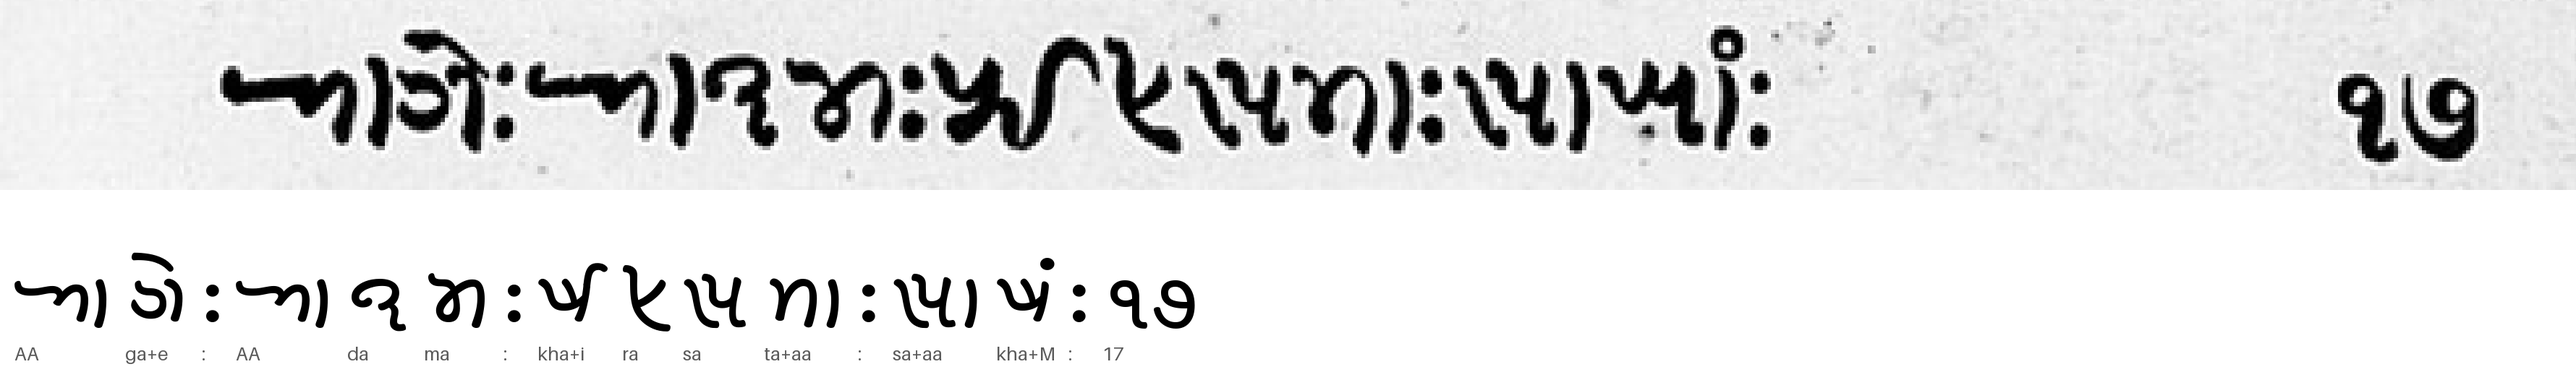
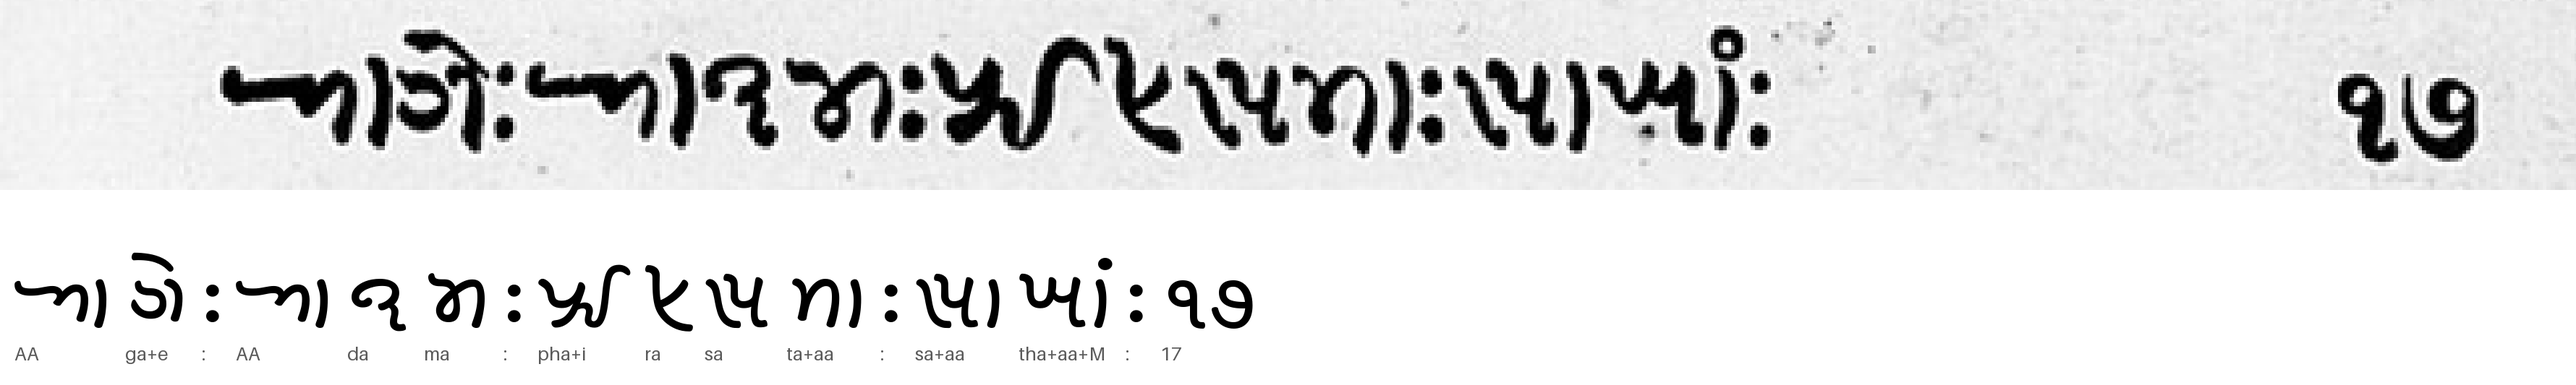
ground truth: human-verified
Human check changed 4 of 5 lines (12 edits in 119 code points against the draft). Draft lines kept in data/gt_draft. Page 18 manual count: 16.

Changed region(s): [[0.2182, 0.6904, 0.4987, 0.8705], [0.187, 0.9006, 0.4364, 0.9606], [0.4052, 0.6604, 0.4364, 0.6904]]

diff --git a/tools/draft_cer.py b/tools/draft_cer.py
@@ -1,0 +1,30 @@
+"""Compare the AI-drafted ground truth with the human-checked version.
+
+Writes results/gt_draft_check.json.
+"""
+import json
+from pathlib import Path
+
+from rapidfuzz.distance import Levenshtein
+
+DRAFT = Path("data/gt_draft")
+GT = Path("data/gt_lines")
+OUT = Path("results/gt_draft_check.json")
+
+
+def main() -> None:
+    lines = {}
+    for f in sorted(GT.glob("*.gt.txt")):
+        gt = f.read_text(encoding="utf-8").strip()
+        draft = (DRAFT / f.name).read_text(encoding="utf-8").strip()
+        lines[f.name.split(".")[0]] = {"n": len(gt), "edits": Levenshtein.distance(draft, gt)}
+    edits = sum(v["edits"] for v in lines.values())
+    n = sum(v["n"] for v in lines.values())
+    out = {"lines": lines, "edits": edits, "n": n, "cer": round(edits / n, 4),
+           "lines_changed": sum(v["edits"] > 0 for v in lines.values())}
+    OUT.write_text(json.dumps(out, indent=2), encoding="utf-8")
+    print(f"draft vs checked: {edits}/{n} = {edits / n:.1%}, {out['lines_changed']} lines changed")
+
+
+if __name__ == "__main__":
+    main()

diff --git a/GROUND_TRUTH.md b/GROUND_TRUTH.md
@@ -15,21 +15,47 @@ State this method in the retro. The AI drafted the ground truth, and a person ch
 
 | id | Confidence | Codes (input for ktype.py) | Unicode | Code points |
 |---|---|---|---|---|
-| p18_l02 | high | `U pa na+aa+M : kha+i ra sa ta+aa : ta ba : ba+aa ta+aa+M : ba ta ba : 16` | 𑈃𑈟𑈞𑈬𑈴𑈺𑈉𑈭𑈦𑈩𑈙𑈬𑈺𑈙𑈡𑈺𑈡𑈬𑈙𑈬𑈴𑈺𑈡𑈙𑈡𑈺૧૬ | 28 |
-| p18_l03 | high | `AA ga+e : AA da ma : kha+i ra sa ta+aa : sa+aa kha+M : 17` | 𑈁𑈊𑈰𑈺𑈁𑈛𑈤𑈺𑈉𑈭𑈦𑈩𑈙𑈬𑈺𑈩𑈬𑈉𑈴𑈺૧૭ | 22 |
-| p18_l04 | medium | `sa+o : sa ba : ha+u pa : A pa na+ii : ja+aa ma+aa+M : 18` | 𑈩𑈲𑈺𑈩𑈡𑈺𑈪𑈯𑈟𑈺𑈀𑈟𑈞𑈮𑈺𑈐𑈬𑈤𑈬𑈴𑈺૧૮ | 23 |
-| p18_l05 | medium | `pa+e ja+u+M ha+ii : sa+aa ja+aa : sa+aa+M ha+ii AA+M : pa ta ya ja ta :` | 𑈟𑈰𑈐𑈯𑈴𑈪𑈮𑈺𑈩𑈬𑈐𑈬𑈺𑈩𑈬𑈴𑈪𑈮𑈁𑈴𑈺𑈟𑈙𑈥𑈐𑈙𑈺 | 27 |
+These are the human-checked lines. The AI drafts are kept in `data/gt_draft/` for comparison.
+
+| id | Confidence | Codes (input for ktype.py) | Unicode | Code points |
+|---|---|---|---|---|
+| p18_l02 | high | `U pa na+aa+M : pha+i ra sa ta+aa : ta ba : ba+aa ta+aa+M : ba+ii ba : 16` | 𑈃𑈟𑈞𑈬𑈴𑈺𑈠𑈭𑈦𑈩𑈙𑈬𑈺𑈙𑈡𑈺𑈡𑈬𑈙𑈬𑈴𑈺𑈡𑈮𑈡𑈺૧૬ | 28 |
+| p18_l03 | high | `AA ga+e : AA da ma : pha+i ra sa ta+aa : sa+aa tha+aa+M : 17` | 𑈁𑈊𑈰𑈺𑈁𑈛𑈤𑈺𑈠𑈭𑈦𑈩𑈙𑈬𑈺𑈩𑈬𑈚𑈬𑈴𑈺૧૭ | 23 |
+| p18_l04 | medium | `sa+o : sa ba : ha+u pa : A pa ta+ii : ja+aa ta+aa+M : 18` | 𑈩𑈲𑈺𑈩𑈡𑈺𑈪𑈯𑈟𑈺𑈀𑈟𑈙𑈮𑈺𑈐𑈬𑈙𑈬𑈴𑈺૧૮ | 23 |
+| p18_l05 | medium | `va+e ja+u+M ha+ii+M : sa+aa ja+aa : sa+aa+M ha+ii AA+M : tha+ii ya+u ja ta :` | 𑈨𑈰𑈐𑈯𑈴𑈪𑈮𑈴𑈺𑈩𑈬𑈐𑈬𑈺𑈩𑈬𑈴𑈪𑈮𑈁𑈴𑈺𑈚𑈮𑈥𑈯𑈐𑈙𑈺 | 29 |
 | p18_l06 | high | `AA pa : na+i ra+M ja na : U pa na+aa+M :` | 𑈁𑈟𑈺𑈞𑈭𑈦𑈴𑈐𑈞𑈺𑈃𑈟𑈞𑈬𑈴𑈺 | 16 |
 
-Total: 116 code points. Full code point lists are in `gt_lines/lines.json`.
+Total: 119 code points. Full code point lists are in `gt_lines/lines.json`.
 
-## Glyphs to check first
+## Human check
 
-1. **p18_l04, word 3, last glyph:** pa or independent vowel E (U+11204).
-2. **p18_l04, word 4:** a small dot after A. It was ignored. It can be ink noise or an anusvara.
-3. **p18_l04, last word:** ma or ta.
-4. **p18_l05, glyph 1:** pa+e or kha+e.
-5. **p18_l02, glyph 2:** pa. It has a small curl at the base. The same shape is in p18_l04 and p18_l05, so it is probably how this type draws pa.
+The human check changed 4 of the 5 lines. Each change was drawn under the scan with `tools/compare.py` before it was accepted.
+
+| Line | Draft | Checked | Evidence in the scan |
+|---|---|---|---|
+| p18_l02 | kha+i | pha+i | closed loop at the bottom left, which only pha has |
+| p18_l02 | ba ta | ba+ii | the long tail below the line is the II sign |
+| p18_l03 | kha+i | pha+i | same loop as l02 |
+| p18_l03 | kha+M | tha+aa+M | three prongs on top (tha, kha has two), plus a vowel bar under the ring |
+| p18_l04 | ma+aa+M | ta+aa+M | same bottom-left loop as the ta in l02 and l03 |
+| p18_l04 | na+ii | ta+ii | same ta shape with an II sign |
+| p18_l05 | pa+e | va+e | closest match in the font |
+| p18_l05 | ha+ii | ha+ii+M | a missed anusvara |
+| p18_l05 | pa ta ya | tha+ii ya+u | three glyphs misread |
+
+The hollow ring above the vowel bar is anusvara (U+11234), not the abbreviation sign (U+1123D). Noto Sans Khojki draws the abbreviation sign on the baseline after the letter. The ring sits where anusvara goes, and these words end in "-āṃ", which needs anusvara.
+
+Against the checked lines, the AI draft had 12 edits in 119 code points (10.1% CER). `tools/draft_cer.py` computes this and writes `results/gt_draft_check.json`.
+
+Page 18 manual line count: 16 (`gt_lines/page_counts.json`).
+
+Verification time per line was not recorded (`gt_lines/timing.csv` does not exist), so the labelling cost has no measured value.
+
+## Glyphs still unsure
+
+1. **p18_l05, glyph 1:** va+e is the closest match, but it is not certain.
+2. **p18_l04, word 4:** ta+ii or na+ii.
+3. **p18_l04, word 4:** a small dot after A. It was ignored. It can be ink noise or an anusvara.
 
 ## Encoding rules used
 

diff --git a/AI_ERRORS.md b/AI_ERRORS.md
@@ -11,3 +11,5 @@ Entries 1 to 3 come from the ground-truth drafting work described in `GROUND_TRU
 | 3 | 2026-10-31 | Assumption in early plan | Noto Sans Khojki covers the whole block | v2.005 has no glyph for U+11241 KHOJKI VOWEL SIGN VOCALIC R | `tools/check_font.py` reads the font cmap; see `results/font_coverage.txt` |
 | 4 | 2026-10-31 | Coding assistant (`corpus.py` v1) | Shadda and virama can follow a vowel sign, as in "nukta, vowel sign, other marks" | With Noto Sans Khojki and HarfBuzz, virama or shadda after any mark other than nukta is drawn with a dotted circle (U+25CC). The synthetic data would have taught the model broken glyphs | Visual check of `results/synth_samples.png`, then an exhaustive render test of every KA + mark sequence. The generator now puts shadda/virama only on bare consonants and `corpus.py` drops lines that would break shaping |
 | 5 | 2026-10-31 | Coding assistant (prompt summary) | Table 15-4 has three do-not-use pairs (A+AA, AA+E, AA+AI) | The Unicode 17.0 core spec lists eight sequences, including <U+11240, U+1122E> for I, <U+11206, U+1122C> for U and the three-part <U+11200, U+1122C, U+11231> for AU | Read the spec text from unicode.org before writing `charset.DO_NOT_USE`; one test per sequence |
+| 6 | 2026-11-01 | Chat assistant (GT draft) | The 5 drafted lines were "high" or "medium" confidence | The human check changed 4 of 5 lines: 12 edits in 119 code points (10.1% CER). It mixed up kha/pha/tha and ma/ta, missed an anusvara and an II sign, and misread three glyphs in l05 | Human check of each `*.check.png` against the scan; `tools/draft_cer.py` measures the gap (`results/gt_draft_check.json`) |
+| 7 | 2026-11-01 | Coding assistant (GT review) | The hollow ring above the vowel bar in l02/l04 could be the abbreviation sign U+1123D | It is anusvara U+11234. The font draws U+1123D on the baseline after the letter, and the words end in "-āṃ" | Rendered both options under the scan |
